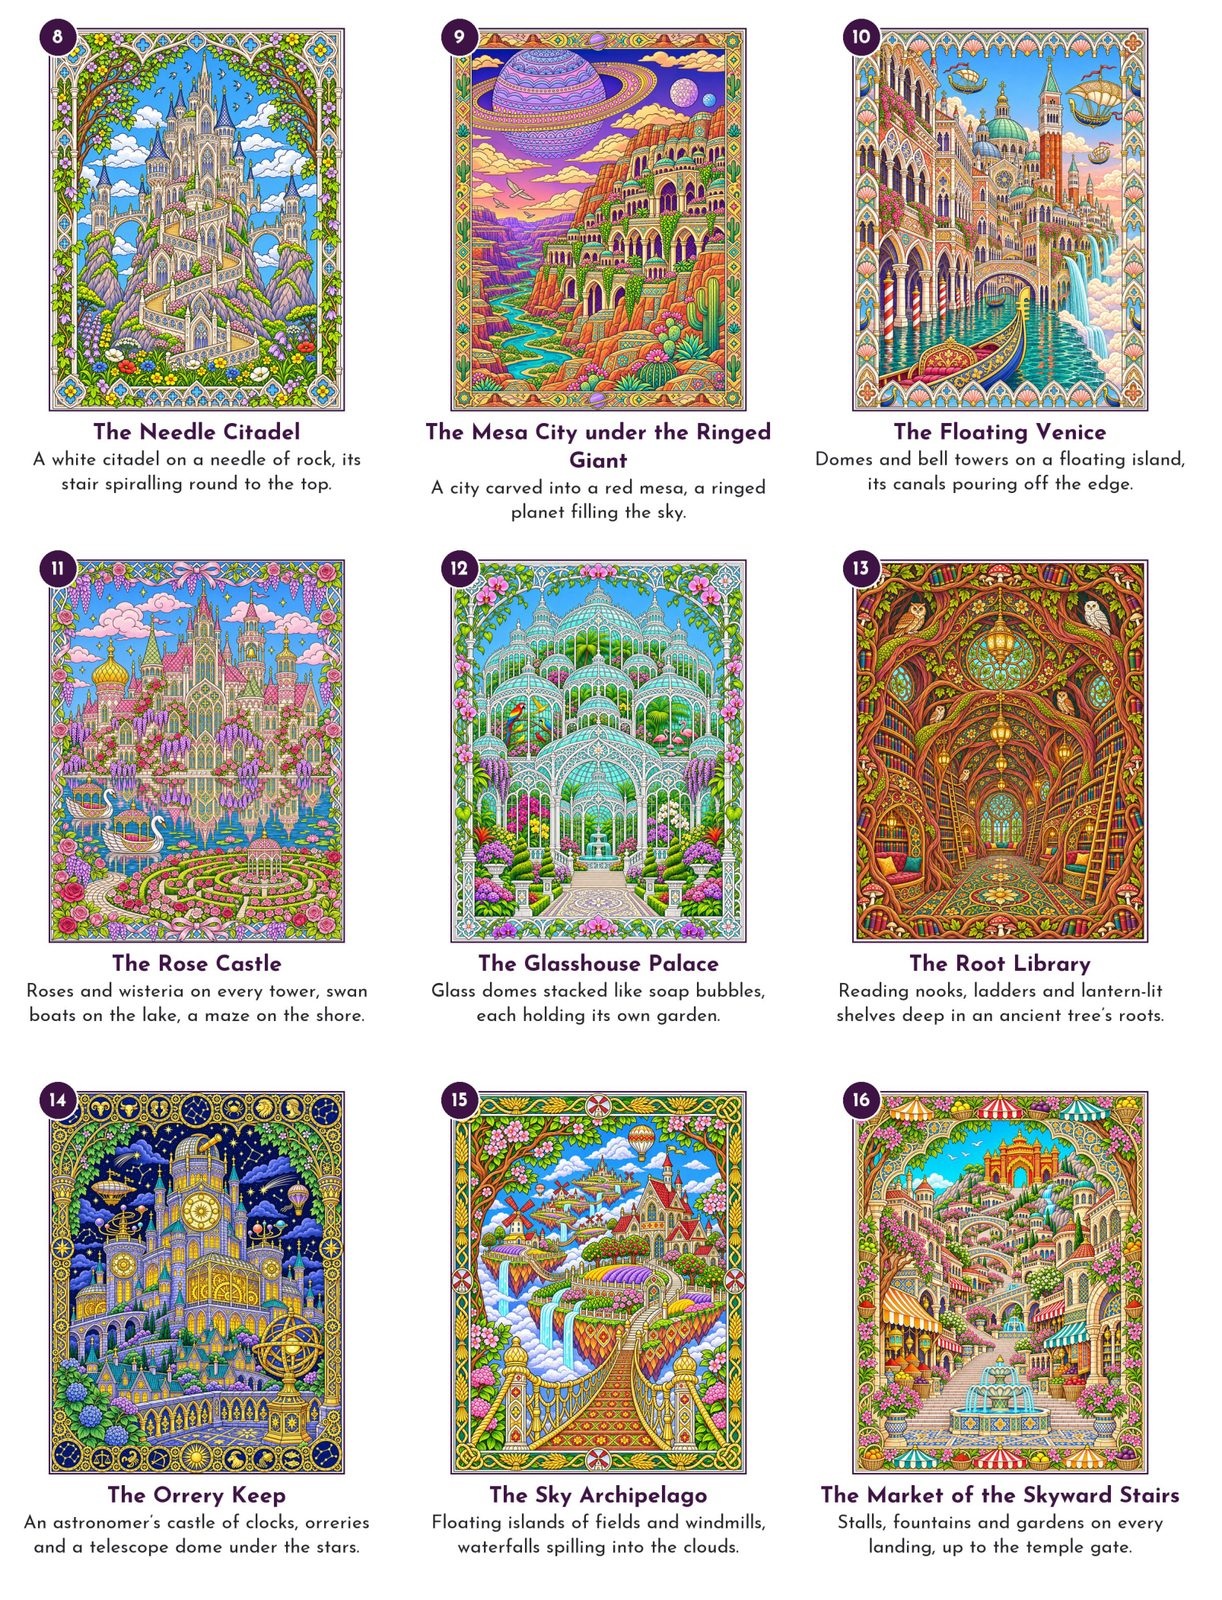
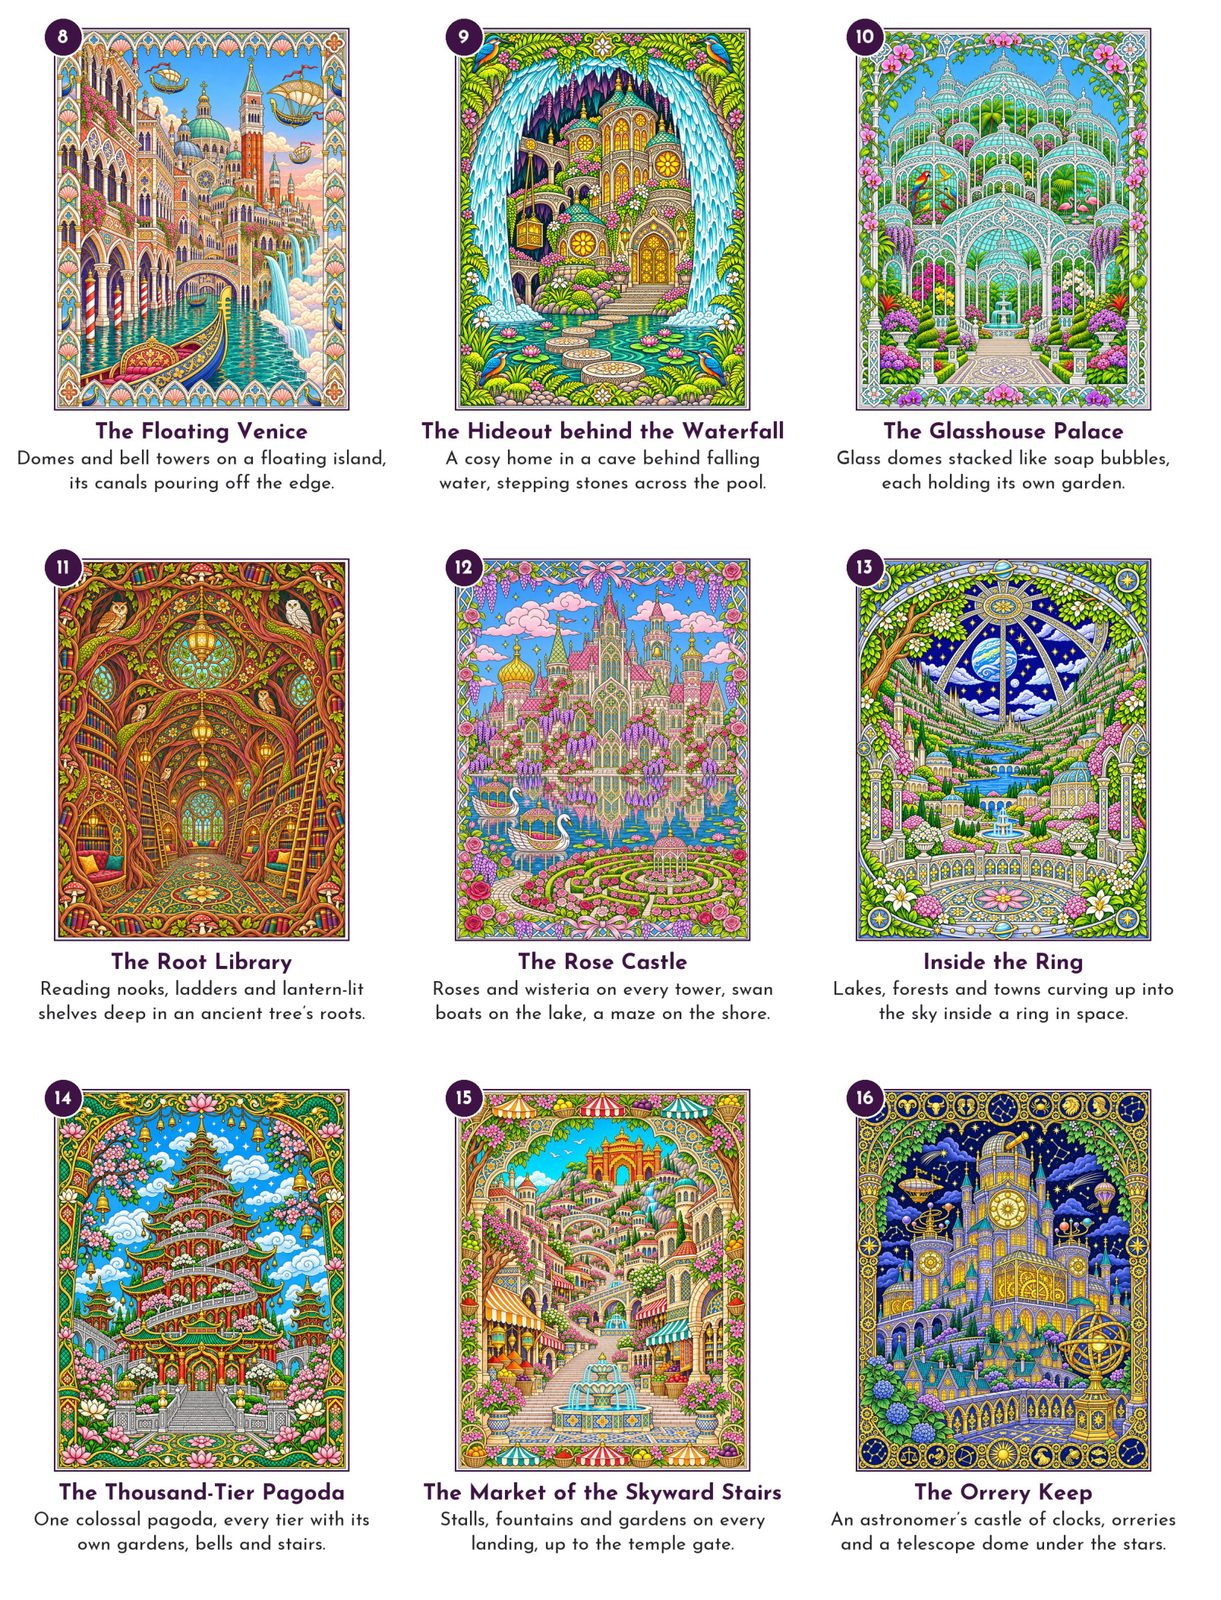
Fantasy Landscapes: 33 pictures, new key pages
- Two new pictures (neon canyon city, city in a star bubble)
- Key previews from the 74-page interior

diff --git a/colouring-for-adults.html b/colouring-for-adults.html
@@ -86,9 +86,9 @@
         <div>
           <div class="eyebrow">Coming soon</div>
           <h3>Colouring Fantasy Landscapes for Adults</h3>
-          <p>Step into worlds that exist only in the imagination. From a crystal cathedral mirrored in a mountain lake to a glowing forest of mushroom houses: 31 imagined places where fantasy meets science fiction, each inside its own ornamental border.</p>
+          <p>Step into worlds that exist only in the imagination. From a crystal cathedral mirrored in a mountain lake to a glowing forest of mushroom houses: 33 imagined places where fantasy meets science fiction, each inside its own ornamental border.</p>
           <ul>
-            <li>31 detailed scenes: castles, floating islands, sky harbours, alien shores and temple cities</li>
+            <li>33 detailed scenes: castles, floating islands, neon cities, sky harbours, alien shores and temple cities</li>
             <li>Single-sided pages, so markers never spoil the next picture</li>
             <li>A full-colour key at the back, The Dreamer's Atlas, with a line about each world</li>
             <li>Large 8.5 x 11 in pages (21.6 x 27.9 cm)</li>
